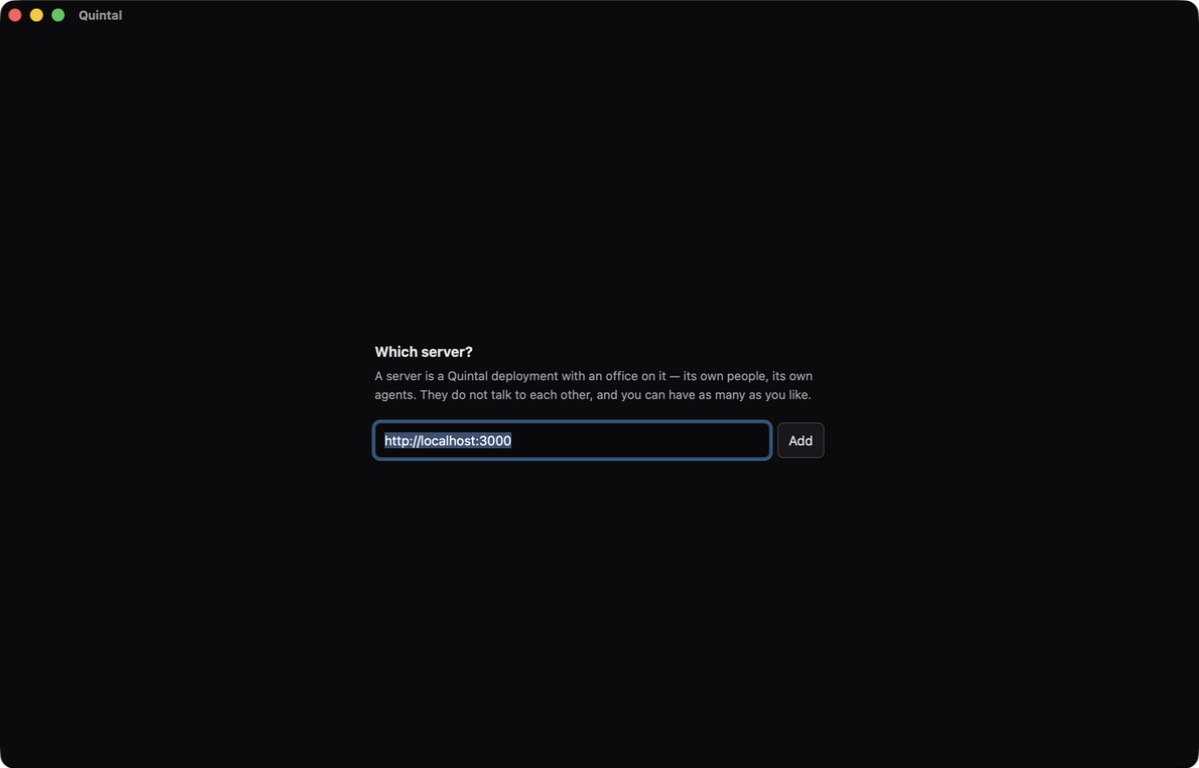
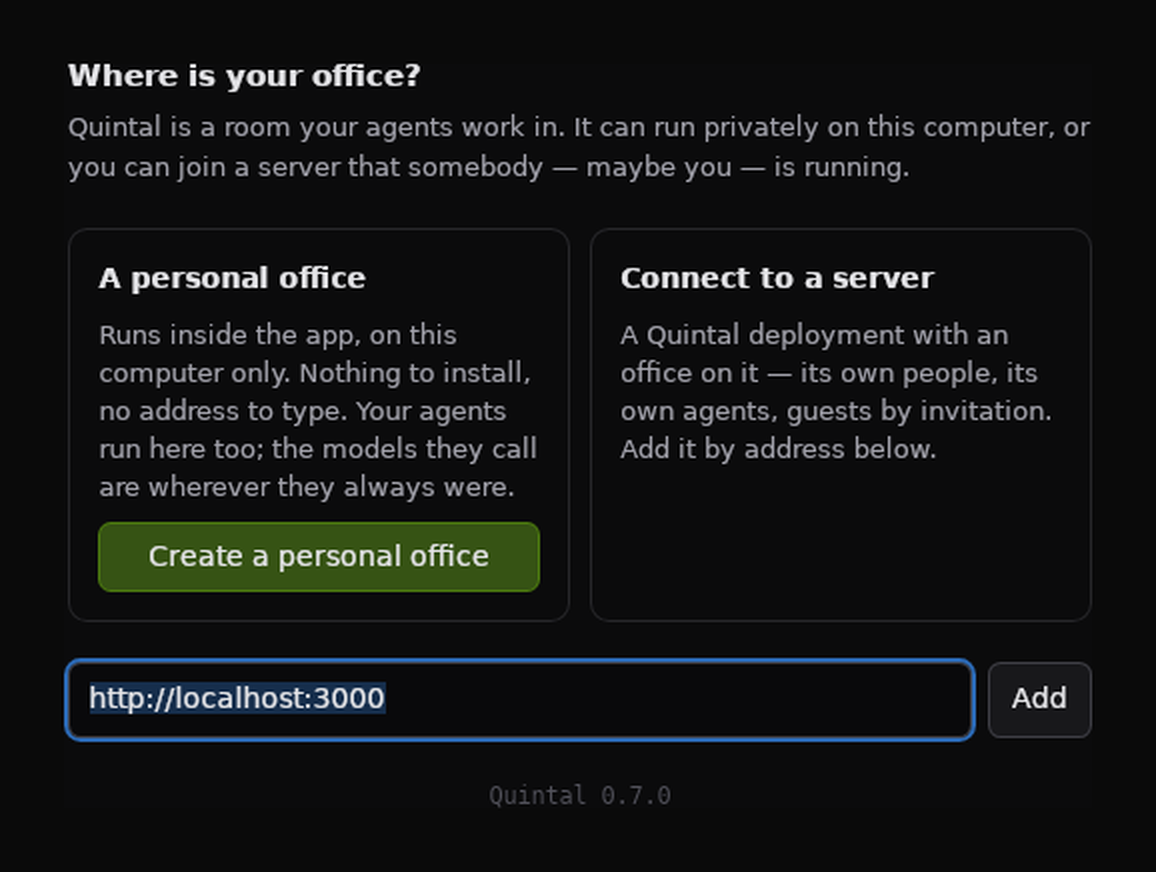
docs(website): close the personal-office path for first-time visitors (QUIN-79) (#149)
Say what “local” means on download and getting-started, stop the principles
card from sounding Docker-only, and replace the old Which-server? README
screenshot with the Where is your office? picker from the 0.7.0 AppImage smoke.

diff --git a/apps/website/src/app/download/page.tsx b/apps/website/src/app/download/page.tsx
@@ -79,6 +79,10 @@ export default function Download() {
           <strong> Create a personal office</strong> runs Quintal privately inside
           the app, on this computer only. <strong>Connect to a server</strong> joins
           a deployment somebody is running. You can have both.</p>
+        <p>&ldquo;Local&rdquo; means Quintal and your agents run on this computer. The
+          models they call are wherever they always were — a cloud-backed agent
+          still needs its account and an internet connection. Neither mode
+          promises offline AI.</p>
         <p>Either way, choose <strong>Create identity</strong> to enter. Save the
           secret key it shows you — there is no reset. A personal office belongs
           to that key alone.</p>

diff --git a/apps/website/src/app/page.tsx b/apps/website/src/app/page.tsx
@@ -405,8 +405,9 @@ export default function Home() {
             <div>
               <h3>One process. One SQLite file.</h3>
               <p>
-                Run your own office with Docker. Keep it on your machine, or put
-                it on your server.
+                A personal office runs inside the app. Host people with Docker
+                on this machine or on your server — same process, same database
+                file.
               </p>
               <a
                 className="text-link"

diff --git a/docs/verification/QUIN-79/README.md b/docs/verification/QUIN-79/README.md
@@ -1,0 +1,40 @@
+# QUIN-79 — website getting-started and download for the personal office
+
+Verified locally on 2026-10-10 in the `ys/update-website-s-getting` worktree,
+against the static export at `http://127.0.0.1:3106` (`apps/website/out`).
+
+## Automated checks
+
+| Check | Result |
+| --- | --- |
+| `pnpm --filter @quintal/website build` | PASS; `/`, `/download/`, `/docs/getting-started/` statically exported |
+| `pnpm --filter @quintal/website typecheck` | PASS |
+| `node scripts/check-release-links.mjs` | PASS; 5 installers on `/download`, 112 files checked |
+| `git diff --check` | PASS |
+
+## Smoke checks
+
+- `/`, `/download/`, `/docs/getting-started/`, `/sitemap.xml` → HTTP 200.
+- Download OCR of §2 includes **Create a personal office** and **“Local” means
+  Quintal and your agents run on this computer… Neither mode promises offline AI**.
+- Getting-started viewport shows the same Local / cloud-backed boundary.
+- Home HTML contains `A personal office runs inside the app` and
+  `Host people with Docker` (not `Run your own office with Docker`).
+- Picker screenshot OCR: **Where is your office?** / **Create a personal office**
+  (from v0.7.0 `appimage-smoke`, cropped into `screenshots/release-smoke/`).
+
+### Evidence
+
+| File | What it shows |
+| --- | --- |
+| [download.png](./download.png) | Install-first download page (1440×1100) |
+| [download-open-office.png](./download-open-office.png) | §2 Open your office + Local boundary (OCR’d) |
+| [getting-started.png](./getting-started.png) | Quickstart with Local boundary visible |
+| [home.png](./home.png) | Landing hero |
+
+## Scope limits
+
+Native OS installs, Docker self-hosting guide, and Stage 2 agent onboarding
+were out of ticket scope. The committed picker PNGs are cropped from the
+Linux AppImage smoke; a clean-machine macOS DMG retake can replace them later
+under the same filenames.

diff --git a/README.md b/README.md
@@ -134,9 +134,11 @@ The server image is available at `ghcr.io/joaoh82/quintal`; the
    this computer only, and opens it a few seconds later. **Connect to a
    server** joins a deployment somebody is running — see the Docker path
    below for one on this machine — and is where other people and guests
-   come in. You can have both and move between them.
+   come in. You can have both and move between them. “Local” means Quintal
+   and your agents run on this computer; a cloud-backed agent still needs
+   its account and the network.
 
-   ![Quintal’s first-launch server picker, where you add your office URL](./screenshots/release-smoke/macos-arm64-server-picker.png)
+   ![Quintal’s first-launch picker: create a personal office, or connect to a server by URL](./screenshots/release-smoke/macos-arm64-server-picker.png)
 
 3. **Create your identity.** Choose **Create identity**, save your secret key in a
    password manager — there is no reset — and enter your office. The app can

diff --git a/screenshots/README.md b/screenshots/README.md
@@ -85,3 +85,13 @@ Keep the aspect ratio in step with the page: `Screenshot` takes explicit
 and the Open Graph image in `layout.tsx` declares its own size. A source
 retaken at a different shape means changing all three, or the hero is cropped
 and social cards are letterboxed.
+
+## Release-smoke first-launch picker
+
+`release-smoke/macos-arm64-server-picker.png` (and the Intel twin) illustrate
+the first screen in the README quickstart. They must show **Where is your
+office?** with **Create a personal office**, not the old single-field
+**Which server?** form. The Linux release job’s `appimage-smoke` artifact is
+a full-root capture of that screen; crop the window and replace both files.
+A clean-machine macOS DMG install is the better long-term source when one is
+available — keep the filenames until then.
